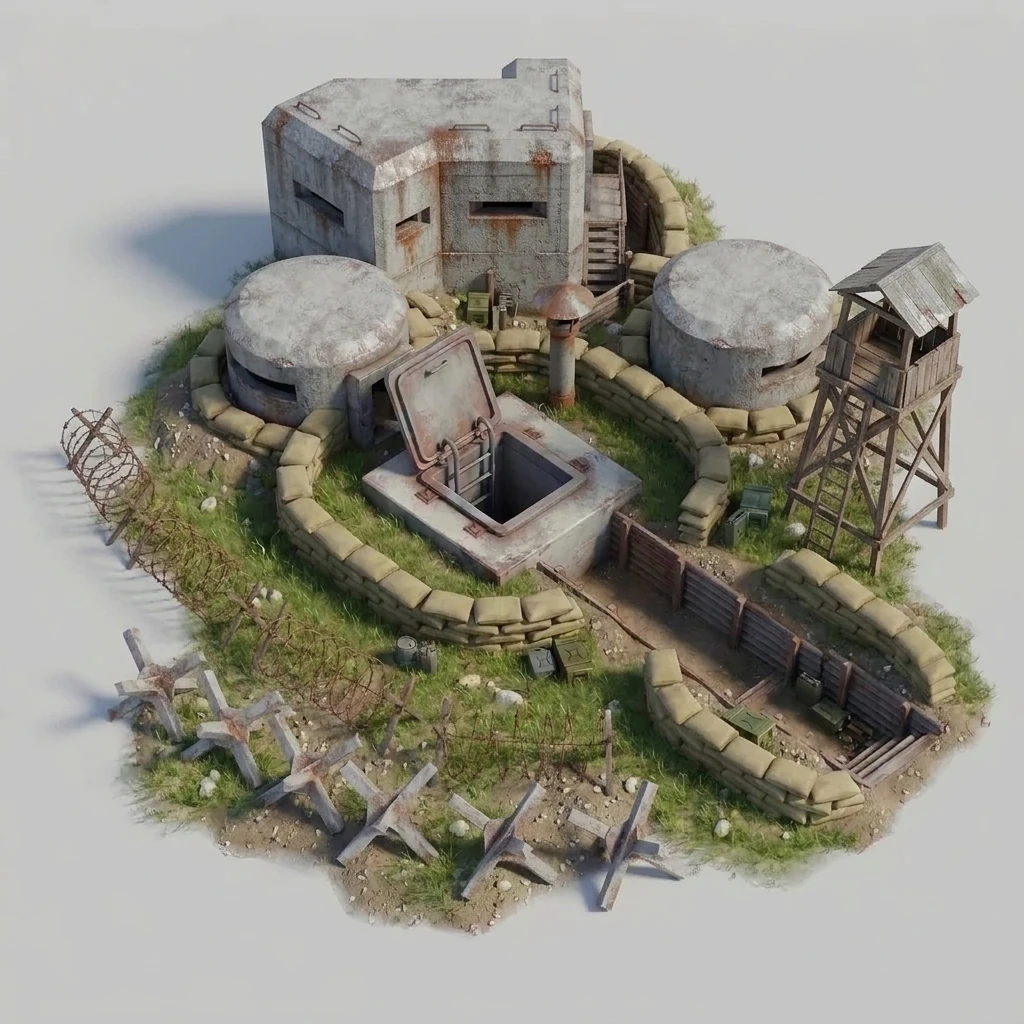
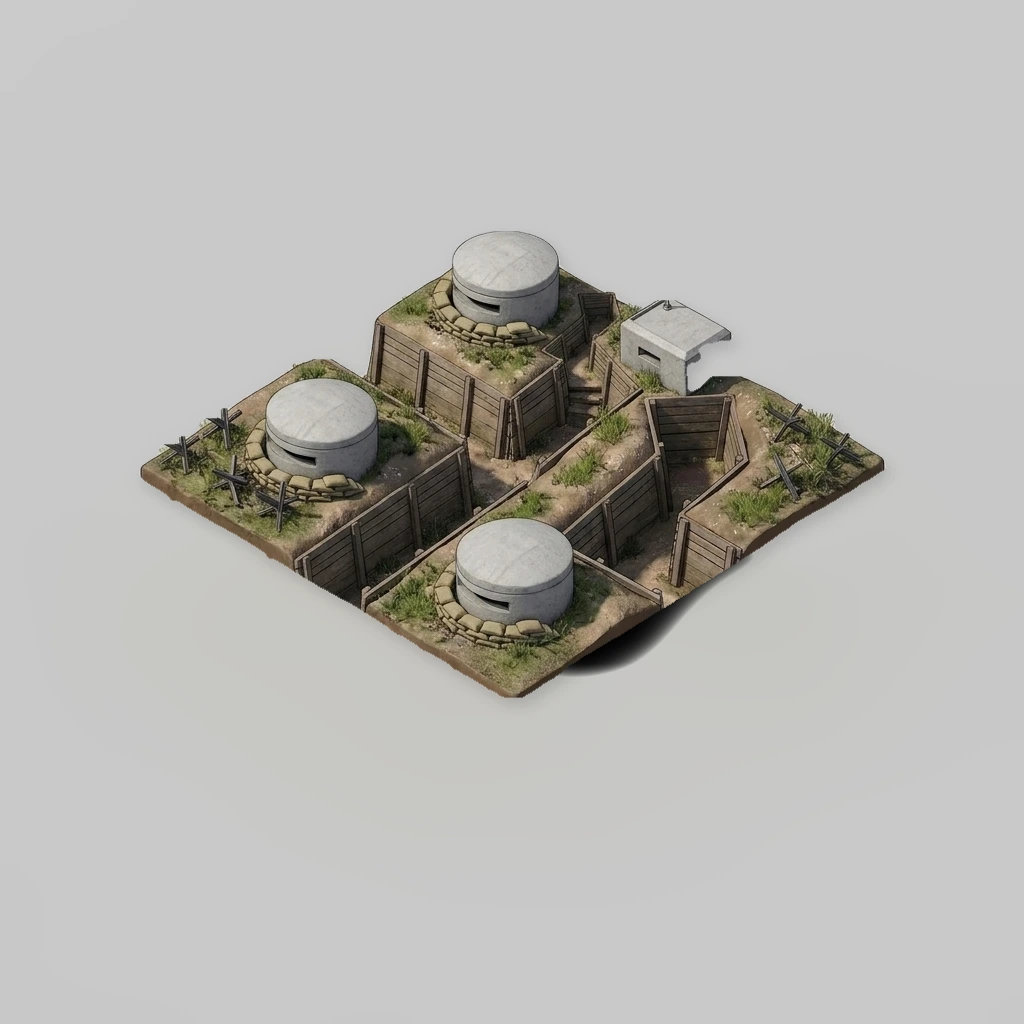
Bunker map pictures: option C version 1 for levels 1-5 in the game (bn-fort-1..5); levels 2-4 drawn as edits of level 1, box removed in code; old pictures kept
Claude-Session: https://claude.ai/code/session_01KVGBc2Umi6eiR6tSvLXXtJ

diff --git a/index.html b/index.html
@@ -6015,10 +6015,10 @@ const BN_WPX = BN_K0*HS0;   // ... which is BN_WPX world px (times the picture's
 const BN_STYLES = ['western', 'eastern-europe', 'middle-east', 'east-asia', 'south-asia', 'africa', 'latin-america'];
 // each picture's size (px), ground anchor and top of the building (fractions), HQ flagpole tops [x, y, pole length] (fractions; the flags are to be drawn on them)
 // and the Naval Yard's pier side: written by tools/cutout-angled.py --embed
-const BNMETA = {"bn-air-1":{"ax":0.5008,"ay":0.5538,"h":154,"top":0.0053,"w":256},"bn-air-2":{"ax":0.5279,"ay":0.6042,"h":156,"top":0.0052,"w":256},"bn-air-3":{"ax":0.528,"ay":0.6029,"h":156,"top":0.0052,"w":256},"bn-air-4":{"ax":0.5333,"ay":0.5524,"h":188,"top":0.0042,"w":256},"bn-air-5":{"ax":0.5136,"ay":0.5854,"h":188,"top":0.0042,"w":256},"bn-arms-1":{"ax":0.4861,"ay":0.7144,"h":188,"top":0.0028,"w":256},"bn-arms-2":{"ax":0.5142,"ay":0.7008,"h":188,"top":0.0028,"w":256},"bn-arms-3":{"ax":0.5291,"ay":0.7245,"h":193,"top":0.0039,"w":256},"bn-arms-4":{"ax":0.52,"ay":0.7156,"h":241,"top":0.001,"w":256},"bn-arms-5":{"ax":0.5412,"ay":0.7044,"h":245,"top":0.001,"w":256},"bn-build-1":{"ax":0.508,"ay":0.7302,"h":216,"top":0.0041,"w":256},"bn-build-2":{"ax":0.404,"ay":0.7022,"h":238,"top":0.0038,"w":256},"bn-build-3":{"ax":0.4146,"ay":0.7321,"h":246,"top":0.0036,"w":256},"bn-crane":{"ax":0.5754,"ay":0.9712,"h":160,"top":0.0041,"w":135},"bn-fac-1":{"ax":0.5188,"ay":0.6407,"h":172,"top":0.0048,"w":256},"bn-fac-2":{"ax":0.5195,"ay":0.7289,"h":194,"top":0.004,"w":256},"bn-fac-3":{"ax":0.5196,"ay":0.7288,"h":194,"top":0.0027,"w":256},"bn-fac-4":{"ax":0.517,"ay":0.7477,"h":208,"top":0.0025,"w":256},"bn-fac-5":{"ax":0.5086,"ay":0.7039,"h":244,"top":0.0032,"w":256},"bn-fort-1":{"ax":0.5213,"ay":0.6744,"h":169,"top":0.0054,"w":256},"bn-fort-2":{"ax":0.5071,"ay":0.6246,"h":183,"top":0.0092,"w":256},"bn-fort-3":{"ax":0.5546,"ay":0.6173,"h":170,"top":0.003,"w":256},"bn-fort-4":{"ax":0.5302,"ay":0.7158,"h":229,"top":0.0023,"w":256},"bn-fort-5":{"ax":0.5237,"ay":0.723,"h":239,"top":0.0021,"w":256},"bn-fortcut-1":{"ax":0.5786,"ay":0.656,"h":250,"top":0.0034,"w":256},"bn-fortcut-2":{"ax":0.581,"ay":0.6513,"h":256,"top":0.0033,"w":247},"bn-fortcut-3":{"ax":0.5761,"ay":0.6463,"h":256,"top":0.0022,"w":250},"bn-fortcut-4":{"ax":0.5284,"ay":0.6449,"h":247,"top":0.0021,"w":256},"bn-fortcut-5":{"ax":0.5183,"ay":0.6586,"h":253,"top":0.002,"w":256},"bn-hospital-1":{"ax":0.463,"ay":0.6771,"h":182,"top":0.0045,"w":256},"bn-hospital-2":{"ax":0.4251,"ay":0.6376,"h":218,"top":0.0024,"w":256},"bn-hospital-3":{"ax":0.4797,"ay":0.6685,"h":220,"top":0.0034,"w":256},"bn-hospital-4":{"ax":0.5163,"ay":0.7235,"h":238,"top":0.0021,"w":256},"bn-hospital-5":{"ax":0.5137,"ay":0.7283,"h":232,"top":0.0022,"w":256},"bn-hq-africa":{"ax":0.4631,"ay":0.6541,"flags":[[0.0093,0.5061,0.1816],[0.0357,0.5286,0.1816],[0.0621,0.5531,0.1816],[0.0884,0.5776,0.1796],[0.2668,0.7469,0.1776],[0.2924,0.7714,0.1776],[0.3195,0.7959,0.1755],[0.3459,0.8204,0.1755]],"h":179,"top":0.0061,"w":256},"bn-hq-east-asia":{"ax":0.445,"ay":0.6655,"flags":[[0.009,0.5425,0.1682],[0.0345,0.5633,0.1682],[0.06,0.586,0.1682],[0.0855,0.6087,0.1664],[0.2579,0.7675,0.1645],[0.2828,0.7902,0.1626],[0.3083,0.8109,0.1626],[0.3345,0.8318,0.1645]],"h":187,"top":0.0038,"w":256},"bn-hq-eastern-europe":{"ax":0.4028,"ay":0.7249,"flags":[[0.0086,0.6248,0.138],[0.0329,0.6419,0.138],[0.0573,0.6605,0.138],[0.0817,0.6791,0.1364],[0.2464,0.8078,0.1364],[0.2701,0.8264,0.1349],[0.2951,0.845,0.1333],[0.3195,0.862,0.1349]],"h":218,"top":0.0047,"w":256},"bn-hq-latin-america":{"ax":0.4529,"ay":0.6713,"flags":[[0.0093,0.5527,0.1645],[0.0356,0.5749,0.1627],[0.062,0.5952,0.1645],[0.0883,0.6174,0.1627],[0.2664,0.7708,0.1627],[0.292,0.793,0.1608],[0.3184,0.8152,0.159],[0.3454,0.8355,0.1608]],"h":197,"top":0.0037,"w":256},"bn-hq-middle-east":{"ax":0.4649,"ay":0.6629,"flags":[[0.0093,0.5236,0.1752],[0.0357,0.5453,0.1752],[0.0621,0.5689,0.1752],[0.0884,0.5925,0.1732],[0.2668,0.7559,0.1732],[0.2924,0.7795,0.1713],[0.3188,0.8031,0.1693],[0.3459,0.8248,0.1713]],"h":186,"top":0.0039,"w":256},"bn-hq-south-asia":{"ax":0.4422,"ay":0.6756,"flags":[[0.0089,0.5468,0.1667],[0.0341,0.5674,0.1667],[0.0593,0.5899,0.1667],[0.0846,0.6124,0.1648],[0.2551,0.7678,0.1648],[0.2797,0.7921,0.161],[0.3056,0.8127,0.161],[0.3308,0.8333,0.1629]],"h":186,"top":0.0056,"w":256},"bn-hq-western":{"ax":0.4603,"ay":0.6778,"flags":[[0.0093,0.5527,0.1645],[0.0357,0.573,0.1645],[0.0621,0.5952,0.1645],[0.0884,0.6174,0.1627],[0.2668,0.7708,0.1627],[0.2924,0.7948,0.159],[0.3195,0.817,0.1571],[0.3459,0.8355,0.1608]],"h":198,"top":0.0055,"w":256},"bn-rec-1":{"ax":0.5012,"ay":0.7052,"h":171,"top":0.0045,"w":256},"bn-rec-2":{"ax":0.4714,"ay":0.7129,"h":168,"top":0.0045,"w":256},"bn-rec-3":{"ax":0.5024,"ay":0.6971,"h":193,"top":0.0039,"w":256},"bn-rec-4":{"ax":0.5192,"ay":0.6614,"h":252,"top":0.0,"w":256},"bn-rec-5":{"ax":0.522,"ay":0.6769,"h":226,"top":0.0011,"w":256},"bn-silo-1":{"ax":0.4756,"ay":0.6714,"h":155,"top":0.0054,"w":256},"bn-silo-2":{"ax":0.4887,"ay":0.6691,"h":156,"top":0.0052,"w":256},"bn-silo-3":{"ax":0.4759,"ay":0.6728,"h":161,"top":0.0049,"w":256},"bn-silo-4":{"ax":0.5036,"ay":0.7011,"h":202,"top":0.0026,"w":256},"bn-silo-5":{"ax":0.5049,"ay":0.7299,"h":214,"top":0.0024,"w":256},"bn-yard-1":{"ax":0.5868,"ay":0.6133,"h":235,"piers":"right","top":0.0021,"w":256},"bn-yard-2":{"ax":0.5866,"ay":0.6137,"h":236,"piers":"right","top":0.0021,"w":256},"bn-yard-3":{"ax":0.5695,"ay":0.6085,"h":236,"piers":"right","top":0.0032,"w":256},"bn-yard-4":{"ax":0.5426,"ay":0.6459,"h":242,"piers":"right","top":0.0031,"w":256},"bn-yard-5":{"ax":0.5122,"ay":0.7042,"h":244,"piers":"right","top":0.0031,"w":256}};
+const BNMETA = {"bn-air-1":{"ax":0.5008,"ay":0.5538,"h":154,"top":0.0053,"w":256},"bn-air-2":{"ax":0.5279,"ay":0.6042,"h":156,"top":0.0052,"w":256},"bn-air-3":{"ax":0.528,"ay":0.6029,"h":156,"top":0.0052,"w":256},"bn-air-4":{"ax":0.5333,"ay":0.5524,"h":188,"top":0.0042,"w":256},"bn-air-5":{"ax":0.5136,"ay":0.5854,"h":188,"top":0.0042,"w":256},"bn-arms-1":{"ax":0.4861,"ay":0.7144,"h":188,"top":0.0028,"w":256},"bn-arms-2":{"ax":0.5142,"ay":0.7008,"h":188,"top":0.0028,"w":256},"bn-arms-3":{"ax":0.5291,"ay":0.7245,"h":193,"top":0.0039,"w":256},"bn-arms-4":{"ax":0.52,"ay":0.7156,"h":241,"top":0.001,"w":256},"bn-arms-5":{"ax":0.5412,"ay":0.7044,"h":245,"top":0.001,"w":256},"bn-build-1":{"ax":0.508,"ay":0.7302,"h":216,"top":0.0041,"w":256},"bn-build-2":{"ax":0.404,"ay":0.7022,"h":238,"top":0.0038,"w":256},"bn-build-3":{"ax":0.4146,"ay":0.7321,"h":246,"top":0.0036,"w":256},"bn-crane":{"ax":0.5754,"ay":0.9712,"h":160,"top":0.0041,"w":135},"bn-fac-1":{"ax":0.5188,"ay":0.6407,"h":172,"top":0.0048,"w":256},"bn-fac-2":{"ax":0.5195,"ay":0.7289,"h":194,"top":0.004,"w":256},"bn-fac-3":{"ax":0.5196,"ay":0.7288,"h":194,"top":0.0027,"w":256},"bn-fac-4":{"ax":0.517,"ay":0.7477,"h":208,"top":0.0025,"w":256},"bn-fac-5":{"ax":0.5086,"ay":0.7039,"h":244,"top":0.0032,"w":256},"bn-fort-1":{"ax":0.4947,"ay":0.6189,"h":161,"top":0.0063,"w":256},"bn-fort-2":{"ax":0.4972,"ay":0.6236,"h":160,"top":0.0042,"w":256},"bn-fort-3":{"ax":0.5099,"ay":0.6426,"h":164,"top":0.0056,"w":256},"bn-fort-4":{"ax":0.5064,"ay":0.633,"h":164,"top":0.0062,"w":256},"bn-fort-5":{"ax":0.5072,"ay":0.6174,"h":157,"top":0.0054,"w":256},"bn-fortcut-1":{"ax":0.5786,"ay":0.656,"h":250,"top":0.0034,"w":256},"bn-fortcut-2":{"ax":0.581,"ay":0.6513,"h":256,"top":0.0033,"w":247},"bn-fortcut-3":{"ax":0.5761,"ay":0.6463,"h":256,"top":0.0022,"w":250},"bn-fortcut-4":{"ax":0.5284,"ay":0.6449,"h":247,"top":0.0021,"w":256},"bn-fortcut-5":{"ax":0.5183,"ay":0.6586,"h":253,"top":0.002,"w":256},"bn-hospital-1":{"ax":0.463,"ay":0.6771,"h":182,"top":0.0045,"w":256},"bn-hospital-2":{"ax":0.4251,"ay":0.6376,"h":218,"top":0.0024,"w":256},"bn-hospital-3":{"ax":0.4797,"ay":0.6685,"h":220,"top":0.0034,"w":256},"bn-hospital-4":{"ax":0.5163,"ay":0.7235,"h":238,"top":0.0021,"w":256},"bn-hospital-5":{"ax":0.5137,"ay":0.7283,"h":232,"top":0.0022,"w":256},"bn-hq-africa":{"ax":0.4631,"ay":0.6541,"flags":[[0.0093,0.5061,0.1816],[0.0357,0.5286,0.1816],[0.0621,0.5531,0.1816],[0.0884,0.5776,0.1796],[0.2668,0.7469,0.1776],[0.2924,0.7714,0.1776],[0.3195,0.7959,0.1755],[0.3459,0.8204,0.1755]],"h":179,"top":0.0061,"w":256},"bn-hq-east-asia":{"ax":0.445,"ay":0.6655,"flags":[[0.009,0.5425,0.1682],[0.0345,0.5633,0.1682],[0.06,0.586,0.1682],[0.0855,0.6087,0.1664],[0.2579,0.7675,0.1645],[0.2828,0.7902,0.1626],[0.3083,0.8109,0.1626],[0.3345,0.8318,0.1645]],"h":187,"top":0.0038,"w":256},"bn-hq-eastern-europe":{"ax":0.4028,"ay":0.7249,"flags":[[0.0086,0.6248,0.138],[0.0329,0.6419,0.138],[0.0573,0.6605,0.138],[0.0817,0.6791,0.1364],[0.2464,0.8078,0.1364],[0.2701,0.8264,0.1349],[0.2951,0.845,0.1333],[0.3195,0.862,0.1349]],"h":218,"top":0.0047,"w":256},"bn-hq-latin-america":{"ax":0.4529,"ay":0.6713,"flags":[[0.0093,0.5527,0.1645],[0.0356,0.5749,0.1627],[0.062,0.5952,0.1645],[0.0883,0.6174,0.1627],[0.2664,0.7708,0.1627],[0.292,0.793,0.1608],[0.3184,0.8152,0.159],[0.3454,0.8355,0.1608]],"h":197,"top":0.0037,"w":256},"bn-hq-middle-east":{"ax":0.4649,"ay":0.6629,"flags":[[0.0093,0.5236,0.1752],[0.0357,0.5453,0.1752],[0.0621,0.5689,0.1752],[0.0884,0.5925,0.1732],[0.2668,0.7559,0.1732],[0.2924,0.7795,0.1713],[0.3188,0.8031,0.1693],[0.3459,0.8248,0.1713]],"h":186,"top":0.0039,"w":256},"bn-hq-south-asia":{"ax":0.4422,"ay":0.6756,"flags":[[0.0089,0.5468,0.1667],[0.0341,0.5674,0.1667],[0.0593,0.5899,0.1667],[0.0846,0.6124,0.1648],[0.2551,0.7678,0.1648],[0.2797,0.7921,0.161],[0.3056,0.8127,0.161],[0.3308,0.8333,0.1629]],"h":186,"top":0.0056,"w":256},"bn-hq-western":{"ax":0.4603,"ay":0.6778,"flags":[[0.0093,0.5527,0.1645],[0.0357,0.573,0.1645],[0.0621,0.5952,0.1645],[0.0884,0.6174,0.1627],[0.2668,0.7708,0.1627],[0.2924,0.7948,0.159],[0.3195,0.817,0.1571],[0.3459,0.8355,0.1608]],"h":198,"top":0.0055,"w":256},"bn-rec-1":{"ax":0.5012,"ay":0.7052,"h":171,"top":0.0045,"w":256},"bn-rec-2":{"ax":0.4714,"ay":0.7129,"h":168,"top":0.0045,"w":256},"bn-rec-3":{"ax":0.5024,"ay":0.6971,"h":193,"top":0.0039,"w":256},"bn-rec-4":{"ax":0.5192,"ay":0.6614,"h":252,"top":0.0,"w":256},"bn-rec-5":{"ax":0.522,"ay":0.6769,"h":226,"top":0.0011,"w":256},"bn-silo-1":{"ax":0.4756,"ay":0.6714,"h":155,"top":0.0054,"w":256},"bn-silo-2":{"ax":0.4887,"ay":0.6691,"h":156,"top":0.0052,"w":256},"bn-silo-3":{"ax":0.4759,"ay":0.6728,"h":161,"top":0.0049,"w":256},"bn-silo-4":{"ax":0.5036,"ay":0.7011,"h":202,"top":0.0026,"w":256},"bn-silo-5":{"ax":0.5049,"ay":0.7299,"h":214,"top":0.0024,"w":256},"bn-yard-1":{"ax":0.5868,"ay":0.6133,"h":235,"piers":"right","top":0.0021,"w":256},"bn-yard-2":{"ax":0.5866,"ay":0.6137,"h":236,"piers":"right","top":0.0021,"w":256},"bn-yard-3":{"ax":0.5695,"ay":0.6085,"h":236,"piers":"right","top":0.0032,"w":256},"bn-yard-4":{"ax":0.5426,"ay":0.6459,"h":242,"piers":"right","top":0.0031,"w":256},"bn-yard-5":{"ax":0.5122,"ay":0.7042,"h":244,"piers":"right","top":0.0031,"w":256}};
 // each picture's footprint: the solid cells (the building and its ground, not the see-through shadow) of a 16 x 12 grid over it, 4 cells a hex digit, row
 // by row: written by tools/bn-foot.py --embed. The layout keeps them off the water (bnFoot, bnWet)
-const BNFOOT = {"bn-air-1":"7ffeffffffffffff7fff7ffe3ffe1ff80ff007e001c00080","bn-air-2":"7ffeffffffffffff7fff7ffe3ffe1ffe0ffe07fc01f80090","bn-air-3":"7ffeffffffffffff7fff7ffe3ffe1ffe0ffe07fc01f80090","bn-air-4":"39fefffeffffffff7fff3fff1ffe0ffe03fc01f001e00040","bn-air-5":"3bfefffeffffffff7fffffff7ffe3ffe0ffc03f801e00040","bn-arms-1":"00000000010007f01ff01ff83ffc7ffefffc3ff80fe00380","bn-arms-2":"0000000001f807fc1ffe1ffe3ffc7ffefffc3ff80fe00380","bn-arms-3":"010003000f083ff8ffffffff7fff7fff7fff3fff0ffe01cc","bn-arms-4":"000003001fc87ffeffffffff7fffffff7ffe0ffc03f800fa","bn-arms-5":"000000260ffe7ffefffe0ffe1ffcffdf7fff3fff02fe0004","bn-build-1":"0010006001000000018007e01ffc7ffe7ffe1ff807e00180","bn-build-2":"0000003406101f107fd07fd0fff0fff0fff07ff01ff00f80","bn-build-3":"0000007002200e203fe03fe07fe07ff07fe0ffe03ff00480","bn-crane":"000000480040004000400040004000400040004000600040","bn-fac-1":"008003c007f00ff83ffc7fff7fff3ffe1ff80ff003e000c0","bn-fac-2":"03c007f01ff83ffe7fff7fff7fff7fff7fff7fff3ffe10cc","bn-fac-3":"03c007f01ff83ffe7fff7fff7fff7fff7fff7fff3ffe10cc","bn-fac-4":"000003c00ff01ffc7ffe7fff7fff7fff7fff7fff7ffe11cc","bn-fac-5":"004007e00ff87ffe7fff7fff7fffffff7fff3ffc0ff003e0","bn-fort-1":"01800fe01ff83ffe7ffefffe7ffe3fff3fff0ffe07fc0030","bn-fort-2":"1f803fe07ff87ffc7ffc7ffc7ffe3fff0fff027e003c0018","bn-fort-3":"0d981ffc3ffe7ffe7ffc7ffe3ffe1fff07ff03fe003c0018","bn-fort-4":"018007e007f01ffe3ffe7ffe3ffe1ffe3fff3ffe1ffc0700","bn-fort-5":"000007c007f80ffe3ffe7ffe7ffefffe7fff3ffe1ffc0380","bn-fortcut-1":"004000c003fe1ffe1fff1fff1fff1ffe0ffe07f803f00000","bn-fortcut-2":"004001c007fe1fff1fff1fff1fff1ffe0ffc07f801f00040","bn-fortcut-3":"00f807fe1fff1fff1fff1fff1ffe1ffe1ffe0ffc03f000e0","bn-fortcut-4":"000c07fc3ffc7fff7fff7fff7ffe7ffe3ffc0ff803e001c0","bn-fortcut-5":"000007f83ffc7fff7fff7fff7ffe7ffe3ffc0ff807e001c0","bn-hospital-1":"030006c009f00fc80f981ff83ffc7ff87ff01fe00f800300","bn-hospital-2":"08003f007cc07dd87f98fff87ffc7ff81fe007c003e00060","bn-hospital-3":"01801ce03fe83fd87ff87ff83ffc7ffe7ffe1fc401f00060","bn-hospital-4":"01b80cfe7feeffdfffffffff7ffffffeffffffff1fff0070","bn-hospital-5":"030003f03ffc7fff7fffffffffffffffffffffff1ffe0070","bn-hq-africa":"08001dc07fe07ff07ff07ff81ffc1ffc07fc00f800e00000","bn-hq-east-asia":"00000f803fc07fe07fe07ff07ffc1ff81ffc07f800e00000","bn-hq-eastern-europe":"000000000e003f007f00ff80ff987ff80ff80ff801e00080","bn-hq-latin-america":"000009001fc07fe07fe07ff07ffc0ffc0ffc02f800e00000","bn-hq-middle-east":"00001f803fe07ff07ff07ff83ffc0ffc07fc00f800e00000","bn-hq-south-asia":"08000b003f807fe07fe0fff87ff81ff80ffc03f000e00000","bn-hq-western":"000009001fc07fe07ff07ff07ffc1ffc0ffc02f800e00000","bn-rec-1":"030007c00ff01ff81ff81ff81ff83ffc0ffe0ffc1e181800","bn-rec-2":"010007c00ff01ff83ff87ff83ff81ffc7ffe7ffc1ff80c00","bn-rec-3":"03000fe03ffc3ffe3ffe3ffe7ffe3ffc7ffc7ffc1ff81c00","bn-rec-4":"1fc03fc03ff83ffe3ffe7ffe3fff7fff3fff1ffc03f80060","bn-rec-5":"00c007f00ffc3ffffffffff8fffeff3e3fff1ffe01f80060","bn-silo-1":"0100038007e01ff03ffc7ffefffe7ffc3ff83ff00fe00180","bn-silo-2":"010003c017e01ff83ffc7fffffff7ffe3ffc1ff807e001c0","bn-silo-3":"010003800fe01ff03ffcfffefffefffe7ff81ff00fe00380","bn-silo-4":"000001183fbc1ffe1ffcffffffffffff7ffc3ffc37ec00c0","bn-silo-5":"00000018193c3ffe3ffefffefffffffffffcfffc3ffc0e80","bn-yard-1":"030007fc3ffafbfeee7e7cee239f0f7f00ff00fe00fc0010","bn-yard-2":"030007fc3ffafbfece7e7cfe239f0f7f00ff00fe00f80010","bn-yard-3":"03003ffc7ffafbfece7e7cee23df0f7f00ff00fe00fc0018","bn-yard-4":"06001fdafffefffe6fff7ffe7fdf0f7f18ff60fe00fc0018","bn-yard-5":"06001fdafffefffeefff7ffe7fdf7f7f3eff7ffe1ff80300"};
+const BNFOOT = {"bn-air-1":"7ffeffffffffffff7fff7ffe3ffe1ff80ff007e001c00080","bn-air-2":"7ffeffffffffffff7fff7ffe3ffe1ffe0ffe07fc01f80090","bn-air-3":"7ffeffffffffffff7fff7ffe3ffe1ffe0ffe07fc01f80090","bn-air-4":"39fefffeffffffff7fff3fff1ffe0ffe03fc01f001e00040","bn-air-5":"3bfefffeffffffff7fffffff7ffe3ffe0ffc03f801e00040","bn-arms-1":"00000000010007f01ff01ff83ffc7ffefffc3ff80fe00380","bn-arms-2":"0000000001f807fc1ffe1ffe3ffc7ffefffc3ff80fe00380","bn-arms-3":"010003000f083ff8ffffffff7fff7fff7fff3fff0ffe01cc","bn-arms-4":"000003001fc87ffeffffffff7fffffff7ffe0ffc03f800fa","bn-arms-5":"000000260ffe7ffefffe0ffe1ffcffdf7fff3fff02fe0004","bn-build-1":"0010006001000000018007e01ffc7ffe7ffe1ff807e00180","bn-build-2":"0000003406101f107fd07fd0fff0fff0fff07ff01ff00f80","bn-build-3":"0000007002200e203fe03fe07fe07ff07fe0ffe03ff00480","bn-crane":"000000480040004000400040004000400040004000600040","bn-fac-1":"008003c007f00ff83ffc7fff7fff3ffe1ff80ff003e000c0","bn-fac-2":"03c007f01ff83ffe7fff7fff7fff7fff7fff7fff3ffe10cc","bn-fac-3":"03c007f01ff83ffe7fff7fff7fff7fff7fff7fff3ffe10cc","bn-fac-4":"000003c00ff01ffc7ffe7fff7fff7fff7fff7fff7ffe11cc","bn-fac-5":"004007e00ff87ffe7fff7fff7fffffff7fff3ffc0ff003e0","bn-fort-1":"07800fc00fe01ff83ffc7ffffffe3ffc1ff807f003e00100","bn-fort-2":"07800fc00fe01ff83ffe7fff7ffe3ffc1ff807f003e00180","bn-fort-3":"0000014003f007fc07fe7ffffffc7ffc3ff00fe007c00100","bn-fort-4":"000003c007f007f027fc7ffefffe3e7c1e7807f003e00100","bn-fort-5":"018003c00fe01ff82ffcffff7ffe3ffc0e7807f003c00080","bn-fortcut-1":"004000c003fe1ffe1fff1fff1fff1ffe0ffe07f803f00000","bn-fortcut-2":"004001c007fe1fff1fff1fff1fff1ffe0ffc07f801f00040","bn-fortcut-3":"00f807fe1fff1fff1fff1fff1ffe1ffe1ffe0ffc03f000e0","bn-fortcut-4":"000c07fc3ffc7fff7fff7fff7ffe7ffe3ffc0ff803e001c0","bn-fortcut-5":"000007f83ffc7fff7fff7fff7ffe7ffe3ffc0ff807e001c0","bn-hospital-1":"030006c009f00fc80f981ff83ffc7ff87ff01fe00f800300","bn-hospital-2":"08003f007cc07dd87f98fff87ffc7ff81fe007c003e00060","bn-hospital-3":"01801ce03fe83fd87ff87ff83ffc7ffe7ffe1fc401f00060","bn-hospital-4":"01b80cfe7feeffdfffffffff7ffffffeffffffff1fff0070","bn-hospital-5":"030003f03ffc7fff7fffffffffffffffffffffff1ffe0070","bn-hq-africa":"08001dc07fe07ff07ff07ff81ffc1ffc07fc00f800e00000","bn-hq-east-asia":"00000f803fc07fe07fe07ff07ffc1ff81ffc07f800e00000","bn-hq-eastern-europe":"000000000e003f007f00ff80ff987ff80ff80ff801e00080","bn-hq-latin-america":"000009001fc07fe07fe07ff07ffc0ffc0ffc02f800e00000","bn-hq-middle-east":"00001f803fe07ff07ff07ff83ffc0ffc07fc00f800e00000","bn-hq-south-asia":"08000b003f807fe07fe0fff87ff81ff80ffc03f000e00000","bn-hq-western":"000009001fc07fe07ff07ff07ffc1ffc0ffc02f800e00000","bn-rec-1":"030007c00ff01ff81ff81ff81ff83ffc0ffe0ffc1e181800","bn-rec-2":"010007c00ff01ff83ff87ff83ff81ffc7ffe7ffc1ff80c00","bn-rec-3":"03000fe03ffc3ffe3ffe3ffe7ffe3ffc7ffc7ffc1ff81c00","bn-rec-4":"1fc03fc03ff83ffe3ffe7ffe3fff7fff3fff1ffc03f80060","bn-rec-5":"00c007f00ffc3ffffffffff8fffeff3e3fff1ffe01f80060","bn-silo-1":"0100038007e01ff03ffc7ffefffe7ffc3ff83ff00fe00180","bn-silo-2":"010003c017e01ff83ffc7fffffff7ffe3ffc1ff807e001c0","bn-silo-3":"010003800fe01ff03ffcfffefffefffe7ff81ff00fe00380","bn-silo-4":"000001183fbc1ffe1ffcffffffffffff7ffc3ffc37ec00c0","bn-silo-5":"00000018193c3ffe3ffefffefffffffffffcfffc3ffc0e80","bn-yard-1":"030007fc3ffafbfeee7e7cee239f0f7f00ff00fe00fc0010","bn-yard-2":"030007fc3ffafbfece7e7cfe239f0f7f00ff00fe00f80010","bn-yard-3":"03003ffc7ffafbfece7e7cee23df0f7f00ff00fe00fc0018","bn-yard-4":"06001fdafffefffe6fff7ffe7fdf0f7f18ff60fe00fc0018","bn-yard-5":"06001fdafffefffeefff7ffe7fdf7f7f3eff7ffe1ff80300"};
 const bnA = h => smooth01((h - BN_IN0)/(BN_IN1 - BN_IN0)), bnB = h => smooth01((h - BN_ALL0)/(BN_ALL1 - BN_ALL0));
 const bnL = h => h >= BN_HMIN ? Math.min(h, BN_HMAX)*BN_K0 : BN_HMIN*BN_K0*Math.pow(h/BN_HMIN, 0.35);   // css px of a picture's long side (factor 1) at hexPx h
 // a building's picture name at a game level (null: no angled picture); the HQ by style

diff --git a/tools/gen-art.py b/tools/gen-art.py
@@ -699,6 +699,19 @@ BUNKER_EDITS = {
         "patch beyond it, only a soft shadow."),
 }
 
+# levels 2-4 of option C (owner's choice 2026-11-18, version 1 for every level): edits of level 1 (the version WITH the box), so the five
+# levels match; the box is removed afterwards in code (docs/bunker-options/c-nobox/deslab3.py, T 125).
+BUNKER_EDITS['v2-bunker-c-2'] = ('v2-bunker-c-1', "make it level 2, a little larger: keep the first pillbox and its sandbags and "
+    "trench, extend the same raised earth block a little, and add a second, smaller concrete firing position (a low round "
+    "concrete emplacement with one firing slit and a few sandbags) joined to the first by a short extra stretch of trench")
+BUNKER_EDITS['v2-bunker-c-3'] = ('v2-bunker-c-1', "make it level 3, clearly larger: the same raised earth block extended, with two "
+    "concrete pillboxes with domed roofs and firing slits and sandbags round their fronts, joined by a longer zig-zag trench "
+    "cut into the block, and a few small sandbag positions along the trench")
+BUNKER_EDITS['v2-bunker-c-4'] = ('v2-bunker-c-1', "make it level 4, much larger: the same raised earth block extended further, with "
+    "three concrete pillboxes (domed roofs, firing slits, sandbags) joined by a long zig-zag trench with side branches cut "
+    "into the block, and a small concrete blockhouse with a flat roof and a short antenna mast, a few steel anti-tank "
+    "hedgehogs at the block's edge")
+
 # ---- BUNKER C WITHOUT THE BOX (owner 2026-11-18: "bunker c is the best but i dont like how its on a box ... take that box out").
 # OPTIONS ONLY. Edits of option C's pictures (EDIT_V2): the raised square earth block goes, the trench and sandbags become low
 # earthworks of the object itself. Names v2-bunker-cn-<1|5> -> assets/art-src/ba-v2-bunker-cn-<1|5>.png

diff --git a/RELEASES.md b/RELEASES.md
@@ -129,6 +129,7 @@ How it works from now on:
 - Nation picker back to the old card look (owner): a wide panel with 3 columns of cards (2 on a phone), a big flag on each card with its provinces, cities and difficulty (Easy from 60 provinces, Normal from 20, else Hard), the biggest powers first (by provinces, then cities); the search bar, all 68 nations, the AI difficulty buttons and the command-room background stay. Test: .test/nat-world.js.
 
 - Research screen rebuilt like Conflict of Nations (owner's RESEARCH-CON spec): a RESEARCH banner in your nation group's colour with its emblem, two SLOT boxes, and in each category a day column with only the days that have something, one straight line per column, blue (researched), green (can start now) and grey (not yet) diamonds with no labels, white upgrade symbols and category icons drawn in code, and a glowing today line that moves down one row each game day. Tapping a diamond opens a card like theirs: model name and level (for example "T-72 LVL. 2"), the unit, the emblems of every group that fields that model, the unit's scene with a blue monitor tint and scanlines, what it does, the costs, the time and a big START. New unit pictures (side view, scene, top view per group and look) appear on their own once they are in assets/art; until then today's pictures show. Research rules and saves are unchanged. Test: .test/research-con.js.
+- Bunker map pictures (owner's choice, bunker option C version 1): the five map pictures bn-fort-1 to 5 are now the pillbox and trench with the earth block's sides removed in code (no Gemini for the look; levels 2 to 4 were drawn as edits of level 1 with the box, then cut the same way as levels 1 and 5). The old pictures are kept as assets/art-src/bn-fort-N.old.webp and ba-v2-fortifications-map-N.old.webp. The panel cutaway bn-fortcut-* is unchanged. Tests: .test/bunker.js, bldangled.js, bunker-shots.js.
 ## Released
 - v3.12 (commit 5b47dd8, public 2026-11-11):
   - Battery saver (setting, on by default on phones): the map redraws only when something on it changes, 30 fps cap, pauses in the background, building pictures load when first shown; repairs 1 and 2 (no redraws for convoys, storms or water off screen; names placed right after a phone rotation).
